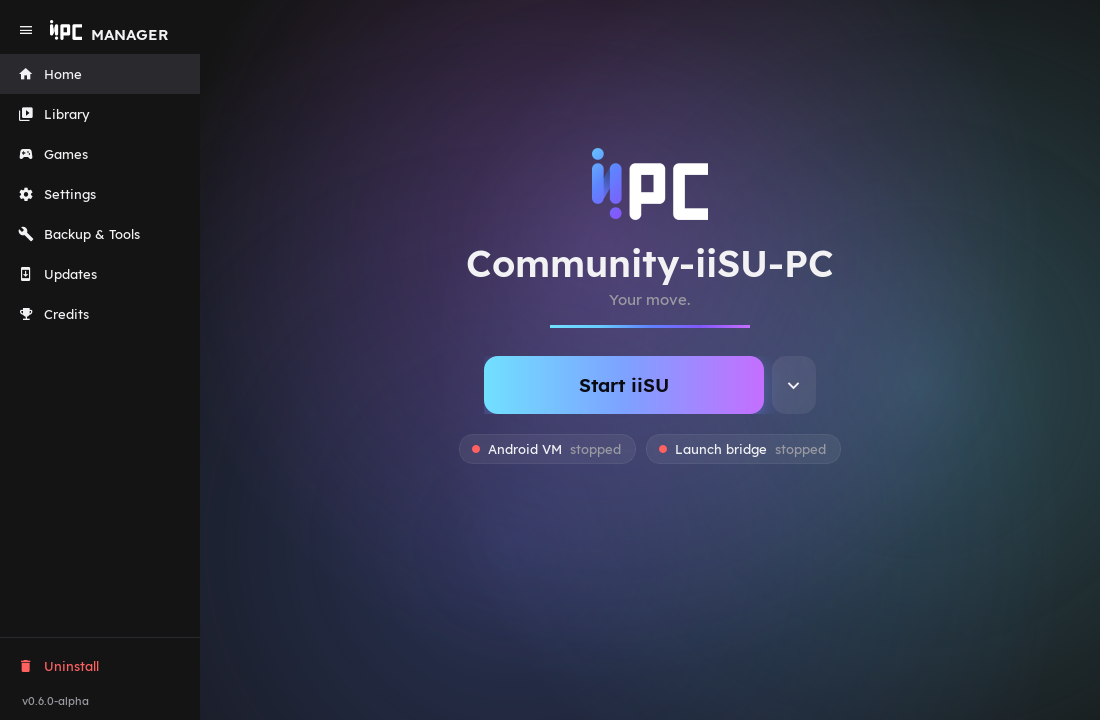
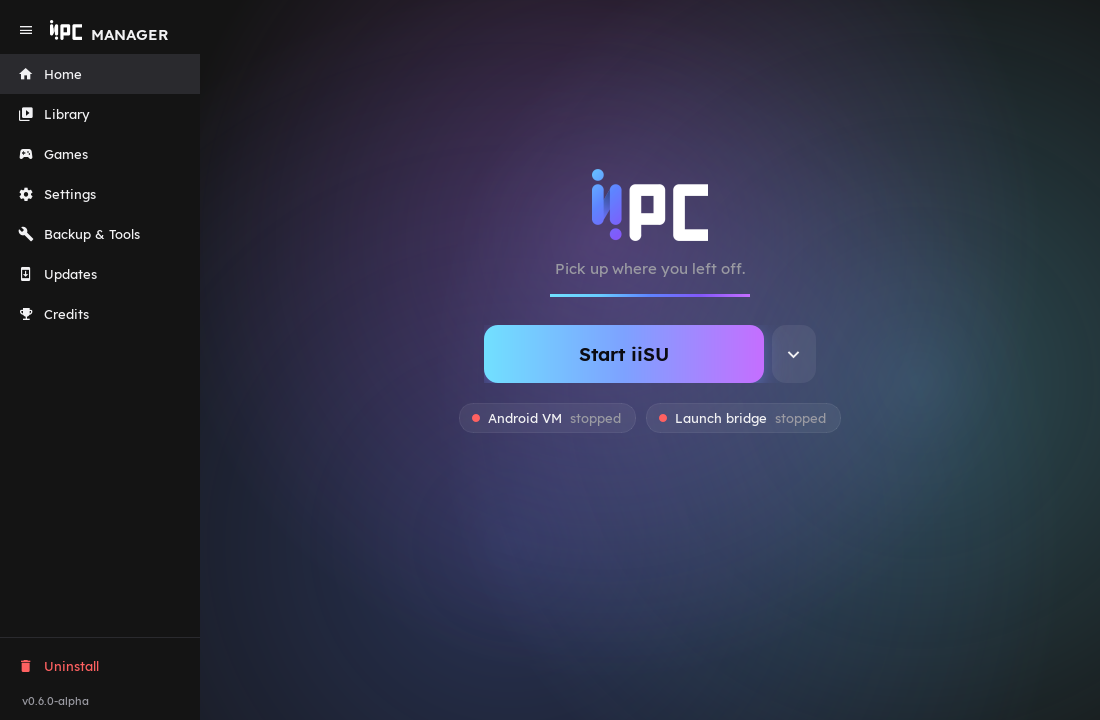
Use the iiPC mark in place of the full name as a heading
Setup's heading is the iiPC mark with SETUP beside it, like the Manager's sidebar, and onboarding opens with "Welcome to" and the mark. The Home page drops the name under its big mark, which said the same thing twice. The loading screen shows the mark above "Starting" (left out on the light theme, where its white PC wouldn't show, and on the problem card). Each falls back to the full name as text if the mark's picture is missing.

Changed region(s): [[0.4327, 0.2139, 0.7727, 0.6417]]

diff --git a/bridge/ui/onboarding_wizard.py b/bridge/ui/onboarding_wizard.py
@@ -44,6 +44,7 @@ from bridge_config import CONFIG_PATH, ConfigMissingError, load_config, save_con
 from console_names import load_console_lookup, resolve_console_shortname, suggest_folder_name
 
 from bridge.ui.dialogs.icon_choice_dialog import IconChoiceDialog
+from bridge.ui.widgets.brand_mark import BrandMark
 from bridge.ui.widgets.card import Card
 from bridge.ui.pages.settings.display import REFRESH_RATE_PRESETS, RESOLUTION_CUSTOM, RESOLUTION_PRESETS, field_width
 from bridge.ui.widgets.display_preview import DisplayPreview
@@ -707,9 +708,17 @@ class OnboardingWizard(QMainWindow):
         root.setContentsMargins(SPACING_LG, 20, SPACING_LG, 20)
         root.setSpacing(6)
 
+        title_row = QHBoxLayout()
+        title_row.setSpacing(14)
         self.title_label = QLabel("")
         self.title_label.setFont(Fonts.title())
-        root.addWidget(self.title_label)
+        title_row.addWidget(self.title_label, 0, Qt.AlignmentFlag.AlignBottom)
+        # "Welcome to" and the iiPC mark on the first step, in place of the
+        # product's full name.
+        self.welcome_mark = BrandMark(34, animated=True)
+        title_row.addWidget(self.welcome_mark, 0, Qt.AlignmentFlag.AlignBottom)
+        title_row.addStretch(1)
+        root.addLayout(title_row)
         self.step_label = QLabel("")
         self.step_label.setProperty("role", "dim")
         root.addWidget(self.step_label)
@@ -754,7 +763,11 @@ class OnboardingWizard(QMainWindow):
         self.stack.setCurrentIndex(index)
 
         is_welcome, is_last = index == 0, index == len(STEP_TITLES) - 1
-        self.title_label.setText("Welcome to Community-iiSU-PC" if is_welcome else STEP_TITLES[index])
+        show_mark = is_welcome and self.welcome_mark.is_available()
+        self.welcome_mark.setVisible(show_mark)
+        self.title_label.setText(
+            ("Welcome to" if show_mark else "Welcome to Community-iiSU-PC") if is_welcome else STEP_TITLES[index]
+        )
         self.step_label.setText("" if is_welcome or is_last else f"Step {index} of {len(STEP_TITLES) - 2}")
 
         if self._steps[index] is self.mappings_step:

diff --git a/bridge/ui/widgets/brand_mark.py b/bridge/ui/widgets/brand_mark.py
@@ -133,3 +133,32 @@ class BrandMark(QWidget):
         composer.end()
         frame.setDevicePixelRatio(self._mark.devicePixelRatio())
         painter.drawImage(0, 0, frame)
+
+
+class BrandTitle(QWidget):
+    """The iiPC mark with a word beside it ("SETUP"), in the style of the
+    sidebar's "iiPC MANAGER", for a window's heading in place of the
+    product's full name. Falls back to the full name as text when the
+    picture is missing."""
+
+    def __init__(self, word: str, mark_height: int = 36, animated: bool = True, parent=None):
+        super().__init__(parent)
+        from PySide6.QtWidgets import QHBoxLayout, QLabel
+
+        from shared.qt_theme import TEXT, Fonts
+
+        layout = QHBoxLayout(self)
+        layout.setContentsMargins(0, 0, 0, 0)
+        layout.setSpacing(round(mark_height * 0.3))
+        self.mark = BrandMark(mark_height, animated=animated)
+        label = QLabel(word.upper() if self.mark.is_available() else f"Community-iiSU-PC {word}")
+        font = Fonts.ui(11, semibold=True)
+        # The word's capitals stand as tall as the "PC" in the mark.
+        font.setPixelSize(round(mark_height * 0.75))
+        label.setFont(font)
+        label.setStyleSheet(f"color: {TEXT}; background: transparent;")
+        if self.mark.is_available():
+            layout.addWidget(self.mark, 0, Qt.AlignmentFlag.AlignBottom)
+        layout.addWidget(label, 0, Qt.AlignmentFlag.AlignBottom)
+        layout.addStretch(1)
+        self.label = label

diff --git a/bridge/ui/boot_overlay_app.py b/bridge/ui/boot_overlay_app.py
@@ -290,7 +290,7 @@ LOG_LINES_SHOWN = 14
 
 
 class OverlayWindow(QWidget):
-    _TITLE_TEXT = "iiSU-PC Starting"
+    _TITLE_TEXT = "Starting"
 
     def __init__(
         self, context: str, flavor: str, status_path: Path | None = None,
@@ -338,6 +338,17 @@ class OverlayWindow(QWidget):
         # project's usual UI font, a blockier, more technical/console-ish
         # face echoing iiSU's own branding without using any of iiSU's
         # actual (copyrighted, not ours to include) font files.
+        # The iiPC mark above the title, in place of the product's name.
+        # Its "PC" is white, so it's left out on the light theme and the
+        # problem card.
+        if not problem and theme is _THEMES["dark"]:
+            from bridge.ui.widgets.brand_mark import BrandMark
+
+            mark = BrandMark(64, animated=True)
+            if mark.is_available():
+                layout.addWidget(mark, 0, Qt.AlignmentFlag.AlignHCenter)
+                layout.addSpacing(6)
+
         self._title = QLabel(self._TITLE_TEXT)
         self._title.setFont(Fonts.brand(32))
         self._title.setStyleSheet(f"color: {PROBLEM_COLOR if problem else theme['title'].name()};")

diff --git a/bridge/ui/pages/home.py b/bridge/ui/pages/home.py
@@ -130,13 +130,14 @@ class HomePage(PageBase):
         self.brand_mark = BrandMark(HERO_LOGO_HEIGHT, animated=True)
         if self.brand_mark.is_available():
             center_layout.addWidget(self.brand_mark, 0, Qt.AlignmentFlag.AlignHCenter)
-            center_layout.addSpacing(20)
-
-        name_label = QLabel("Community-iiSU-PC")
-        name_label.setFont(Fonts.brand(28))
-        name_label.setAlignment(Qt.AlignmentFlag.AlignHCenter)
-        center_layout.addWidget(name_label)
-        center_layout.addSpacing(4)
+            center_layout.addSpacing(18)
+        else:
+            # Without the picture, the name stands in for it.
+            name_label = QLabel("Community-iiSU-PC")
+            name_label.setFont(Fonts.brand(28))
+            name_label.setAlignment(Qt.AlignmentFlag.AlignHCenter)
+            center_layout.addWidget(name_label)
+            center_layout.addSpacing(4)
 
         self.tagline_label = QLabel(random.choice(TAGLINES))
         self.tagline_label.setFont(Fonts.ui(11))

diff --git a/bridge/ui/setup_app.py b/bridge/ui/setup_app.py
@@ -32,6 +32,7 @@ from PySide6.QtWidgets import (
 )
 
 import winapi
+from bridge.ui.widgets.brand_mark import BrandTitle
 from bridge.ui.widgets.card import Card
 from bridge.ui.widgets.gradient_divider import GradientDivider
 from bridge.ui.widgets.step_checklist import StepChecklist
@@ -99,9 +100,10 @@ class SetupWindow(QMainWindow):
         root.setContentsMargins(SPACING_LG - 4, 18, SPACING_LG - 4, SPACING_SM)
         root.setSpacing(SPACING_SM)
 
-        title = QLabel("Community-iiSU-PC Setup")
-        title.setFont(Fonts.title())
-        root.addWidget(title)
+        # The iiPC mark in place of the product's full name, like the
+        # Manager's sidebar ("iiPC MANAGER").
+        root.addWidget(BrandTitle("Setup", mark_height=38))
+        root.addSpacing(4)
 
         subtitle = QLabel(
             "Patches your copy of iiSU to hand game launches to PC emulators,\n"
